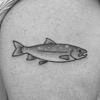
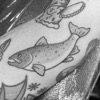
new images

diff --git a/tattoos.html b/tattoos.html
@@ -42,8 +42,76 @@ Tattoos
 
 <!--Tattoos-->	
 
-<a href="images/trout.jpg" title="Trout" rel="lightbox[tattoo]">
+<a href="images/heron.jpg" title="Heron" rel="lightbox[tattoo]">
+<img src="images/tattoo_thumbs/heron_th.jpg" width = "100" title="Hand Poked Tattoos" border="0"/></a>
+
+<a href="images/loafer.jpg" title="Pennyloafer" rel="lightbox[tattoo]">
+<img src="images/tattoo_thumbs/loafer_th.jpg" width = "100" title="Hand Poked Tattoos" border="0"/></a>
+
+<a href="images/gage.jpg" title="Phineas Gage" rel="lightbox[tattoo]">
+<img src="images/tattoo_thumbs/gage_th.jpg" width = "100" title="Hand Poked Tattoos" border="0"/></a>
+
+<a href="images/trout2.jpg" title="Big trout" rel="lightbox[tattoo]">
+<img src="images/tattoo_thumbs/trout2_th.jpg" width = "100" title="Hand Poked Tattoos" border="0"/></a>
+
+<a href="images/turbot.jpg" title="Turbot" rel="lightbox[tattoo]">
+<img src="images/tattoo_thumbs/turbot_th.jpg" width = "100" title="Hand Poked Tattoos" border="0"/></a>
+
+<a href="images/dart.jpg" title="Caught dart" rel="lightbox[tattoo]">
+<img src="images/tattoo_thumbs/dart_th.jpg" width = "100" title="Hand Poked Tattoos" border="0"/></a>
+
+<a href="images/lighthouse_boston.jpg" title="Boston light" rel="lightbox[tattoo]">
+<img src="images/tattoo_thumbs/lighthouse_boston_th.jpg" width = "100" title="Hand Poked Tattoos" border="0"/></a>
+
+<a href="images/mermaid2.jpg" title="Folksy mermaid" rel="lightbox[tattoo]">
+<img src="images/tattoo_thumbs/mermaid2_th.jpg" width = "100" title="Hand Poked Tattoos" border="0"/></a>
+
+<a href="images/woodcock.jpg" title="Woodcock" rel="lightbox[tattoo]">
+<img src="images/tattoo_thumbs/woodcock_th.jpg" width = "100" title="Hand Poked Tattoos" border="0"/></a>
+
+<a href="images/cuntysailor.jpg" title="Hello sailor" rel="lightbox[tattoo]">
+<img src="images/tattoo_thumbs/cuntysailor_th.jpg" width = "100" title="Hand Poked Tattoos" border="0"/></a>
+
+<a href="images/mackerel2.jpg" title="Mackerel" rel="lightbox[tattoo]">
+<img src="images/tattoo_thumbs/mackerel2_th.jpg" width = "100" title="Hand Poked Tattoos" border="0"/></a>
+
+<a href="images/biker.jpg" title="Biker chick" rel="lightbox[tattoo]">
+<img src="images/tattoo_thumbs/biker_th.jpg" width = "100" title="Hand Poked Tattoos" border="0"/></a>
+
+<a href="images/monks.jpg" title="Trout and right whale" rel="lightbox[tattoo]">
+<img src="images/tattoo_thumbs/monks_th.jpg" width = "100" title="Hand Poked Tattoos" border="0"/></a>
+
+<a href="images/lighthouse2.jpg" title="Fantastical lighthouse" rel="lightbox[tattoo]">
+<img src="images/tattoo_thumbs/lighthouse2_th.jpg" width = "100" title="Hand Poked Tattoos" border="0"/></a>
+
+<a href="images/horseshoe.jpg" title="Lucky horseshoe" rel="lightbox[tattoo]">
+<img src="images/tattoo_thumbs/horseshoe_th.jpg" width = "100" title="Hand Poked Tattoos" border="0"/></a>
+
+<a href="images/mackerel.jpg" title="Mackerel" rel="lightbox[tattoo]">
+<img src="images/tattoo_thumbs/mackerel_th.jpg" width = "100" title="Hand Poked Tattoos" border="0"/></a>
+
+<a href="images/trout.jpg" title="trout" rel="lightbox[tattoo]">
 <img src="images/tattoo_thumbs/trout_th.jpg" width = "100" title="Hand Poked Tattoos" border="0"/></a>
+
+<a href="images/soup.jpg" title="SOUP" rel="lightbox[tattoo]">
+<img src="images/tattoo_thumbs/soup_th.jpg" width = "100" title="Hand Poked Tattoos" border="0"/></a>
+
+<a href="images/hare2.jpg" title="Hare" rel="lightbox[tattoo]">
+<img src="images/tattoo_thumbs/hare2_th.jpg" width = "100" title="Hand Poked Tattoos" border="0"/></a>
+
+<a href="images/bartleby.jpg" title="I would prefer not to" rel="lightbox[tattoo]">
+<img src="images/tattoo_thumbs/bartleby_th.jpg" width = "100" title="Hand Poked Tattoos" border="0"/></a>
+
+<a href="images/rooster.jpg" title="Fighting cock" rel="lightbox[tattoo]">
+<img src="images/tattoo_thumbs/rooster_th.jpg" width = "100" title="Hand Poked Tattoos" border="0"/></a>
+
+<a href="images/lobster3.jpg" title="Trout" rel="lightbox[tattoo]">
+<img src="images/tattoo_thumbs/lobster3_th.jpg" width = "100" title="Hand Poked Tattoos" border="0"/></a>
+
+
+
+
+
 
 <a href="images/mermaid.jpg" title="19th century mermaid" rel="lightbox[tattoo]">
 <img src="images/tattoo_thumbs/mermaid_th.jpg" width = "100" title="Hand Poked Tattoos" border="0"/></a>

diff --git a/index.html b/index.html
@@ -36,13 +36,14 @@ Owen the Massachusite
 
 <div id="content">
 
-<img src="flash/sheet_sep2020.jpg" width="400" alt="Flash Sheet" title="Sample flash sheet"/><!--header image-->	
+<img src="images/pride_square.jpg" width="500" alt="Tattooing Aboard the Pride of Baltimore" title="Tattooing Aboard the Pride of Baltimore"/><!--header image-->	
 
 
 	<p class="muchtext">
 	Traditional hand poked tattoos since 2014<br><br>
 	Several bold colors<br><br>
-	Both flash and custom designs<br><br>Work generally inspired by New England and Atlantic Canadian maritime folk art; <br>Sailors' marks, scrimshaw, needlework &c.
+	Both flash and custom designs<br><br>Work generally inspired by New England and Atlantic Canadian maritime folk art; <br>Sailors' marks, scrimshaw, needlework &c.<br><br>
+	Also doing living history programming, teaching about the history of tattooing as a way to better understand the lives of individuals in the past
 	
 	
 	<!--I have been tattooing since 2014, all tattoos are done using traditional hand poking techniques.  I do my flash and custom designs.  My work is generally inspired by New England and Atlantic Canadian maritime folk art.  While historically tattoos were prevalent among sailors of the region, little primary evidence remains.  So in addition to primary sources, I look to scrimshaw, engravings, etchings, needlework, architecture, and paintings.-->

diff --git a/contact.html b/contact.html
@@ -37,7 +37,7 @@ Tattoo Work
 
 <div id="content">
 
-<img src="images/actionshot.jpg" width="800" alt="Action shot" title="Action shot"/><br/> <!--header image-->	
+<img src="images/actionshot.jpg" width="600" alt="Action shot" title="Action shot"/><br/> <!--header image-->	
 
 <p class="muchtext">
 You can find me at <a href="https://luckystattoo.org/">Lucky's Tattoo</a> in Central Square, Cambridge. For up to date work and travel information check <a href="https://www.instagram.com/owen_the_massachusite/">Instagram</a>. To book an appointment, or with general inquiries contact me via
